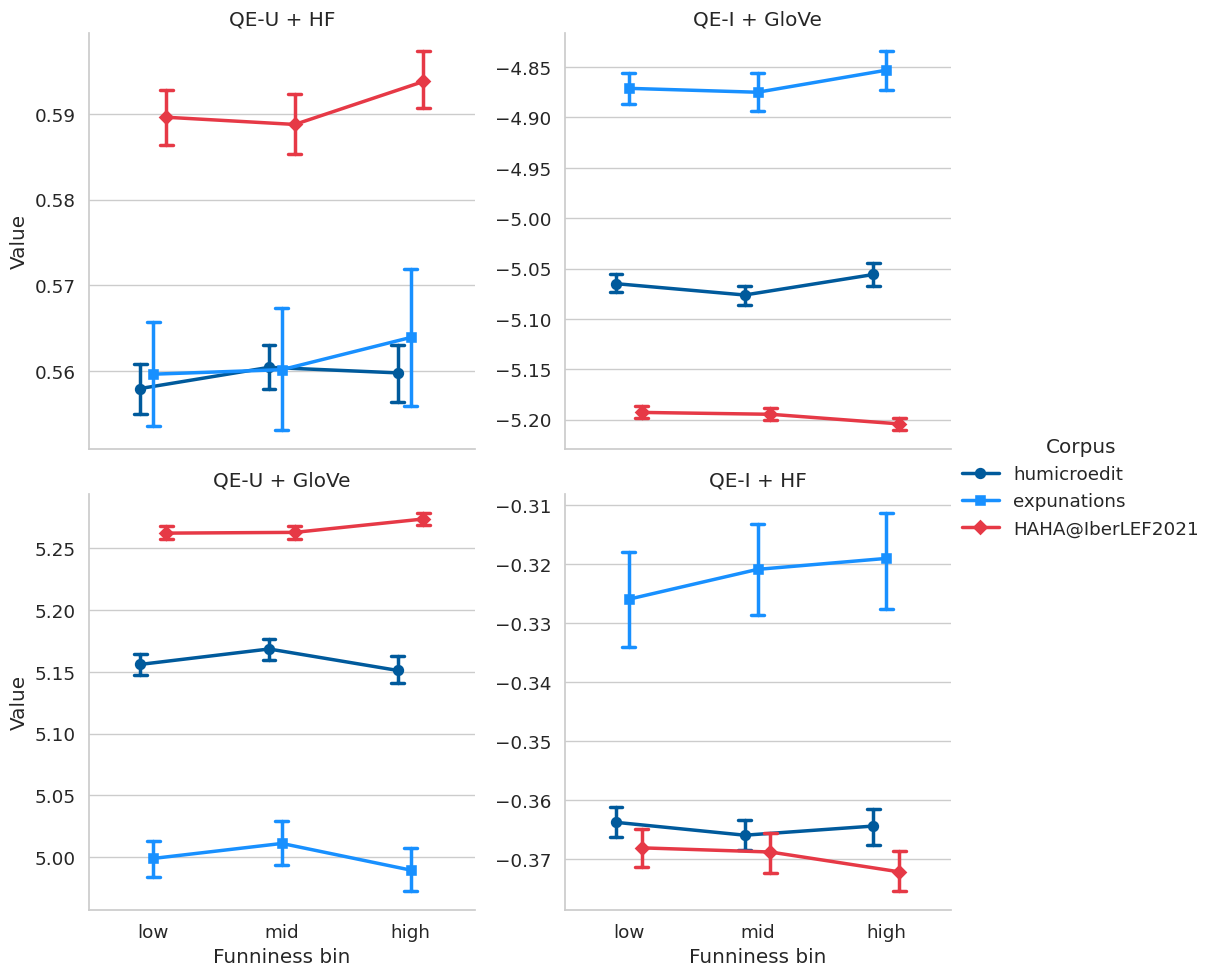
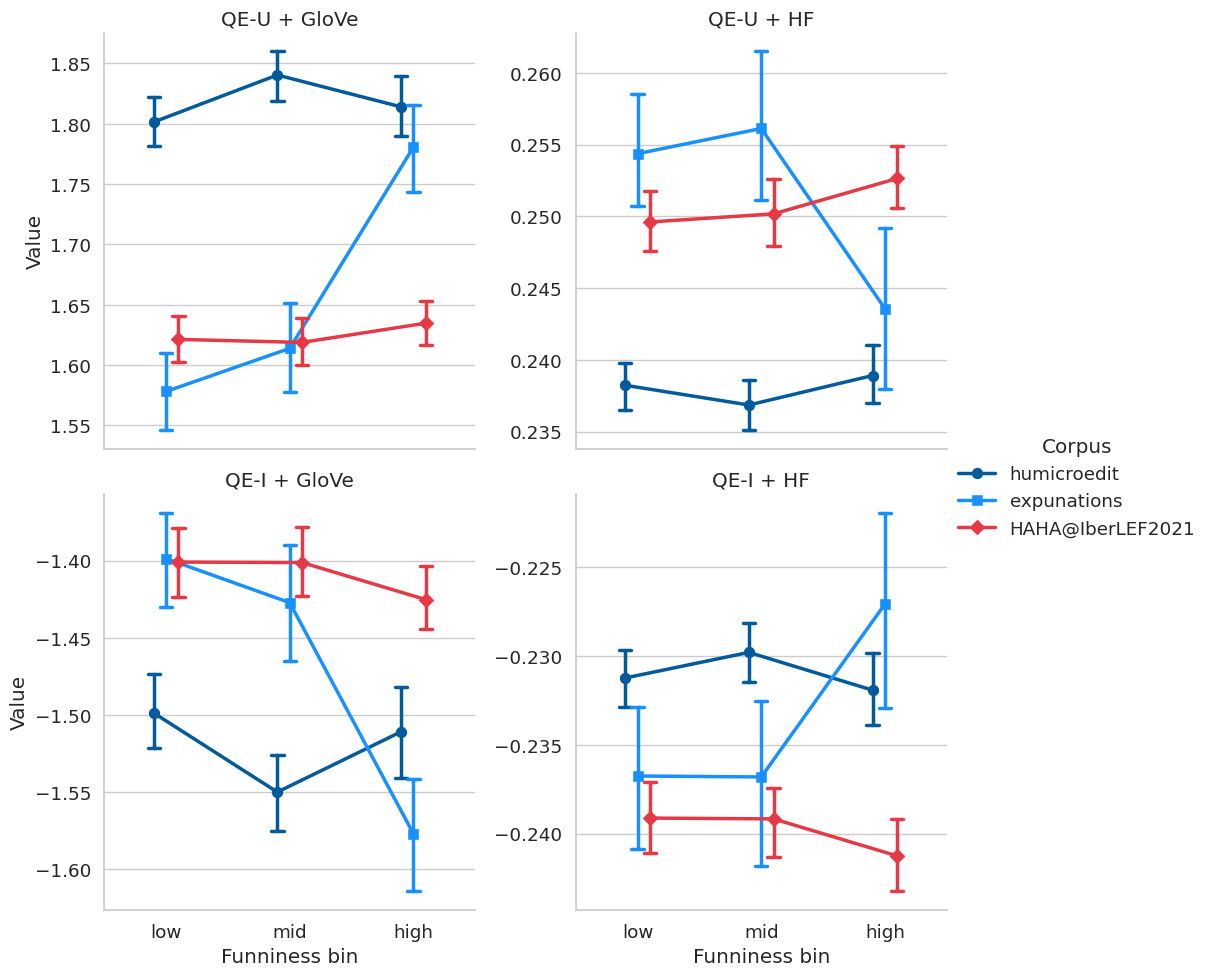
Update analysis for RQ4 and images

diff --git a/scripts/analyses/rq4_quality_alignment.py b/scripts/analyses/rq4_quality_alignment.py
@@ -154,7 +154,13 @@ def _(mo):
 def _(df_no_outliers, mo, pl):
     corr_df = (
         df_no_outliers.group_by(["corpus", "metric"])
-        .agg(pl.corr(pl.col("funniness"), pl.col("value")).alias("correlation"))
+        .agg(
+            pl.corr(
+                pl.col("funniness"),
+                pl.col("value"),
+                method='spearman'
+            ).alias("correlation"),
+        )
         .sort("corpus", "metric")
     )
 
@@ -241,7 +247,7 @@ def _(corpora_enum, corpus_palette, df_no_outliers, sns):
 
 @app.cell
 def _(corpora_enum, corpus_palette, corr_df, mo, plt, sns):
-    plt.figure(figsize=(10, 6))
+    plt.figure(figsize=(15, 6))
     _g = sns.barplot(
         data=corr_df,
         x="correlation",
@@ -249,14 +255,15 @@ def _(corpora_enum, corpus_palette, corr_df, mo, plt, sns):
         hue="corpus",
         palette=corpus_palette,
         hue_order=corpora_enum.categories,
+        order=['QE-U + GloVe', 'QE-U + HF', 'QE-I + GloVe', 'QE-I + HF'],
     )
 
     for _container in _g.containers:
         _g.bar_label(_container, fontsize=10, fmt="%.3f", padding=5)
 
     _g.axvline(0, color="black", linewidth=1, linestyle="--")
-    _g.set_title("Pearson Correlation between Metrics and Funniness")
-    _g.set_xlabel("Pearson Correlation Coefficient (r)")
+    _g.set_title("Spearman Correlation between Metrics and Funniness")
+    _g.set_xlabel("Correlation")
     _g.set_ylabel("Metric")
     _g.legend(title="Corpus", bbox_to_anchor=(1.05, 1), loc="upper left")
     plt.tight_layout()
@@ -278,6 +285,7 @@ def _(df_no_outliers, pl):
         pl.col("funniness")
         .qcut(3, labels=["low", "mid", "high"])
         .over(["corpus", "metric"])
+        .cast(pl.Enum(['low', 'mid', 'high']))
         .alias("funniness bin")
     )
     binned_df
@@ -302,6 +310,7 @@ def _(binned_df, corpora_enum, corpus_palette, sns):
         markers=["o", "s", "D"],
         linewidth=2.5,
         hue_order=corpora_enum.categories,
+        col_order=['QE-U + GloVe', 'QE-U + HF', 'QE-I + GloVe', 'QE-I + HF']
     )
 
     _g.set_titles(col_template="{col_name}")
@@ -314,7 +323,7 @@ def _(binned_df, corpora_enum, corpus_palette, sns):
 
 
 @app.cell
-def _(binned_df, corpus_palette, sns):
+def _(binned_df, corpora_enum, corpus_palette, sns):
     sns.catplot(
         data=binned_df,
         x="funniness bin",
@@ -329,6 +338,8 @@ def _(binned_df, corpus_palette, sns):
         showfliers=False,
         width=0.6,
         linewidth=1.2,
+        hue_order=corpora_enum.categories,
+        col_order=['QE-U + GloVe', 'QE-U + HF', 'QE-I + GloVe', 'QE-I + HF']
     )
     return
 
@@ -360,7 +371,8 @@ def _(binned_df, corpora_enum, kruskal, mo, pl, posthoc_dunn):
                     (pl.col("metric") == _metric) & (pl.col("corpus") == _corpus)
                 )
                 .select(["value", "funniness bin"])
-                .group_by("funniness bin")
+                .sort('funniness bin')
+                .group_by("funniness bin", maintain_order=True)
                 .all()["value"]
                 .to_numpy()
             )
@@ -384,7 +396,20 @@ def _(binned_df, corpora_enum, kruskal, mo, pl, posthoc_dunn):
                     }
                 )
 
-    _results_df = pl.DataFrame(_results).sort("metric", "metric")
+    _results_df = (
+        pl.DataFrame(_results)
+            .sort(
+                pl.col('metric').cast(
+                    pl.Enum([
+                        'QE-U + GloVe',
+                        'QE-I + GloVe', 
+                        'QE-U + HF',
+                        'QE-I + HF'
+                    ])
+                ),
+                pl.col('corpus').cast(corpora_enum)
+            )
+    )
 
     mo.ui.table(
         _results_df,
